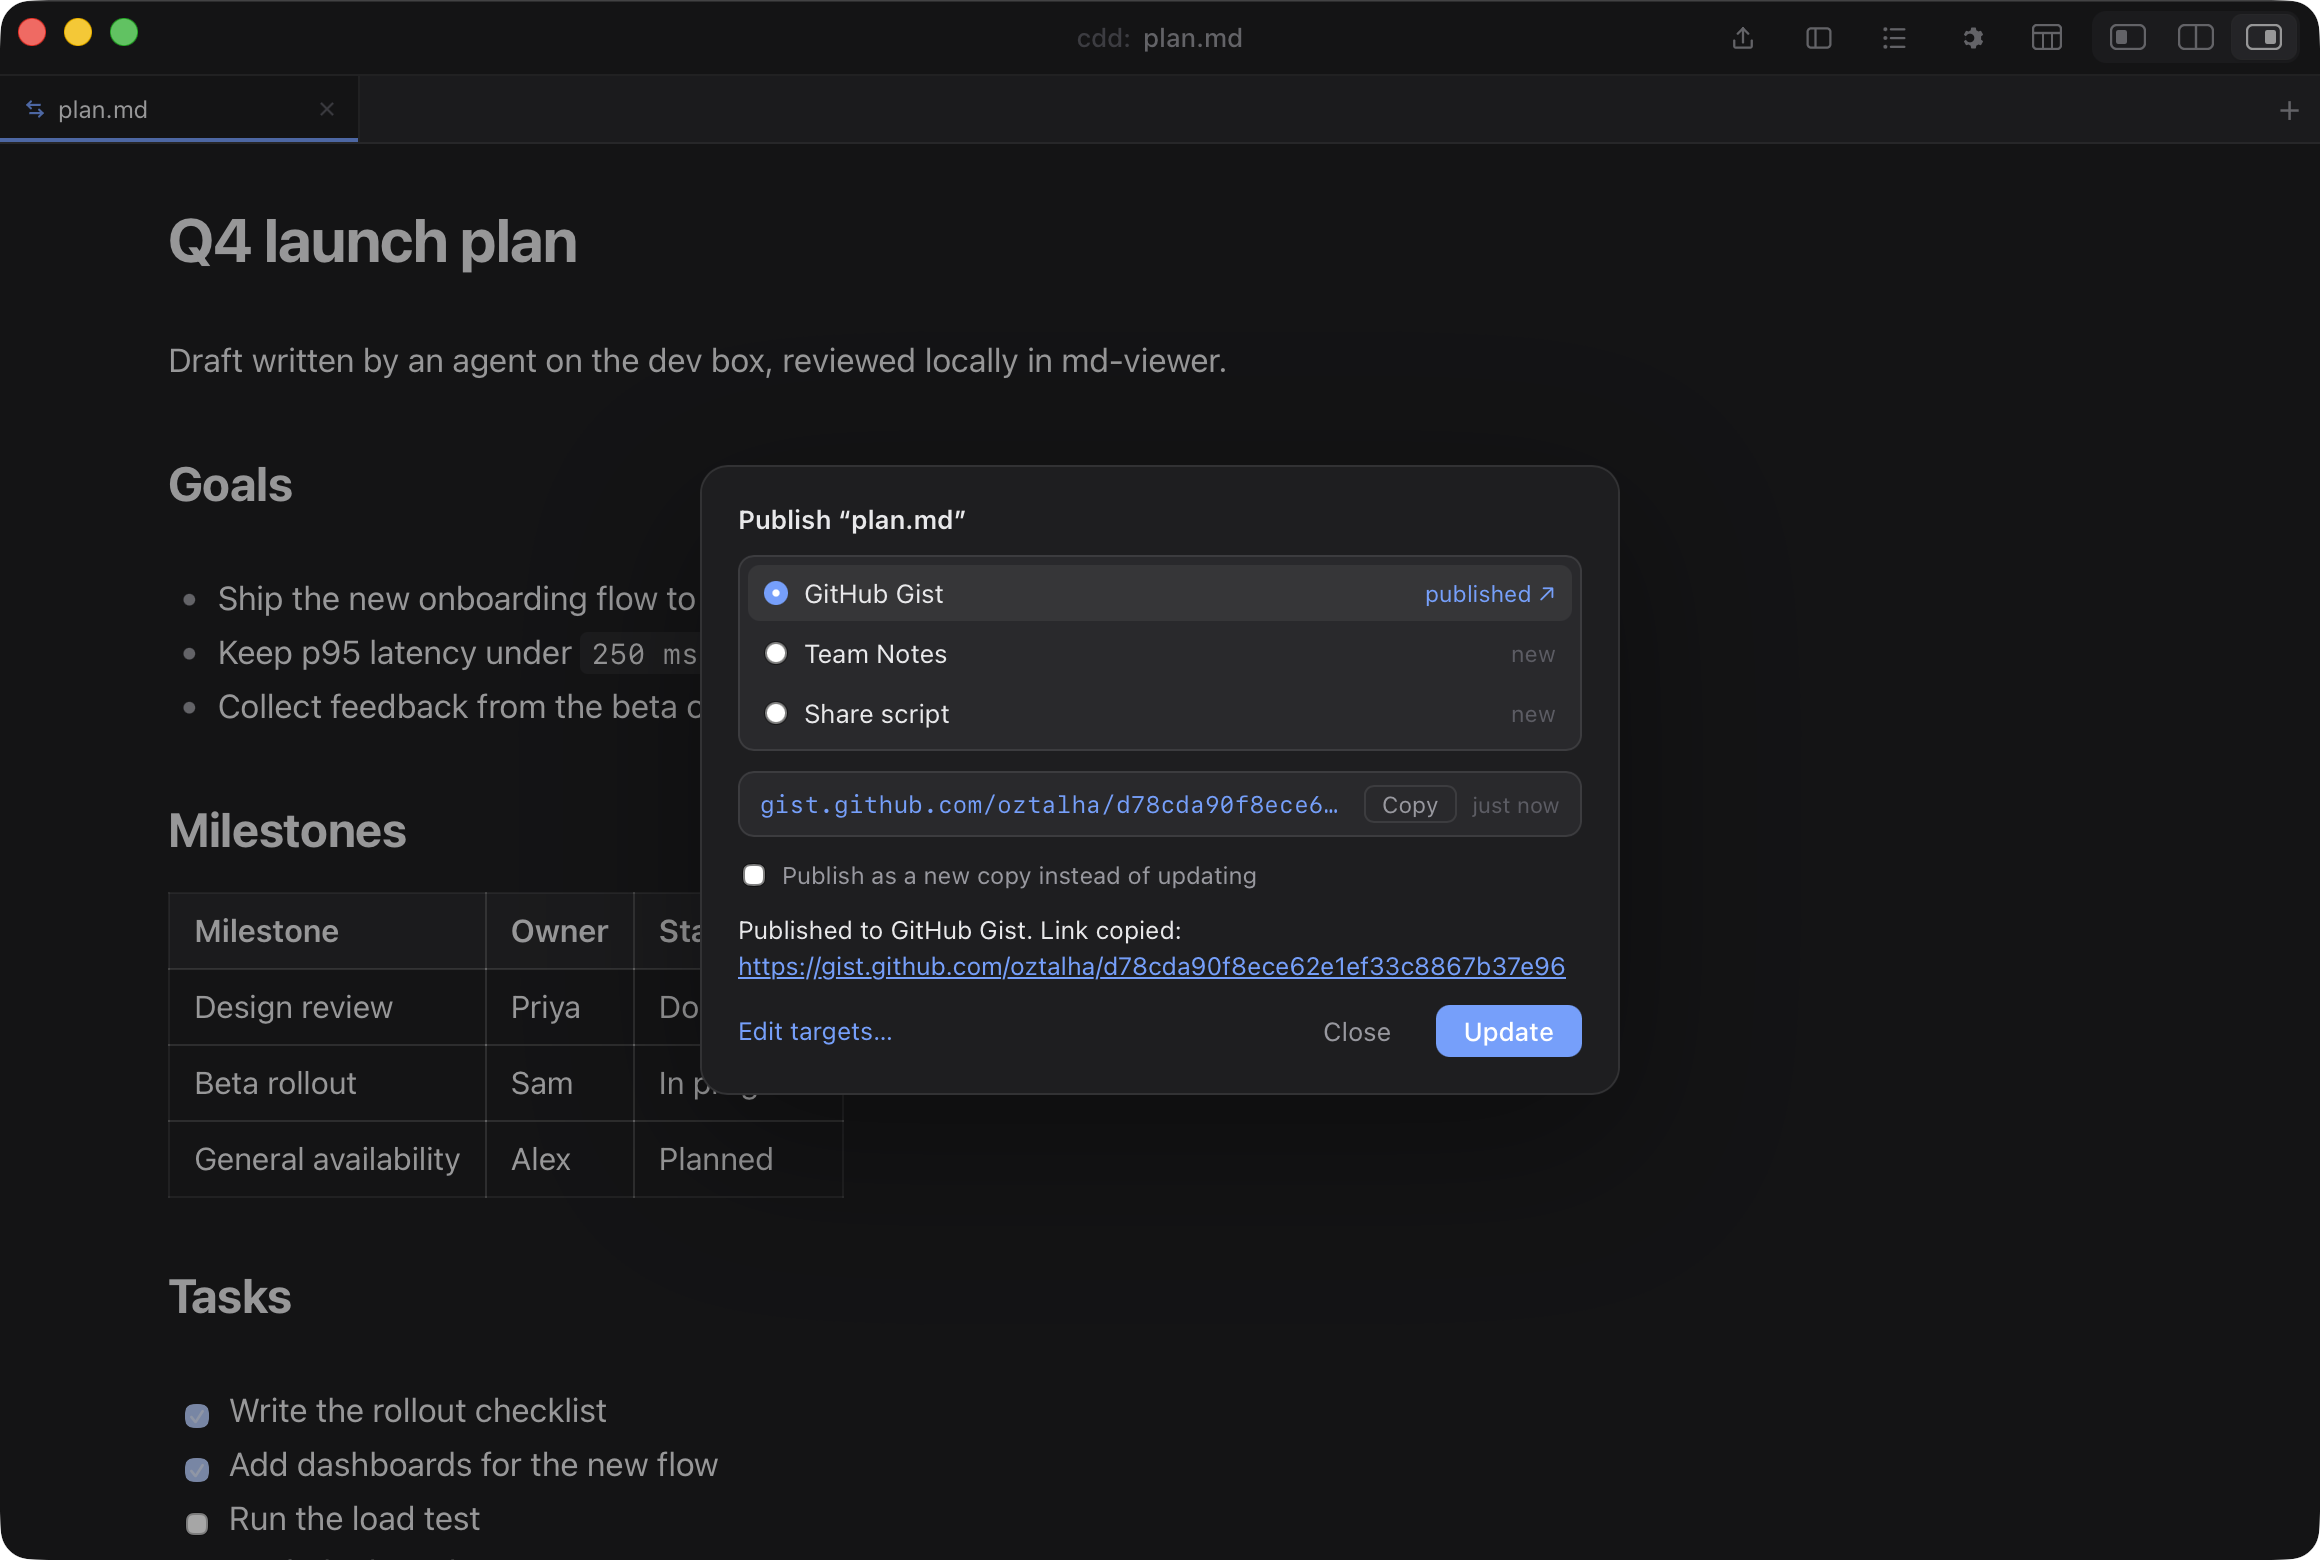
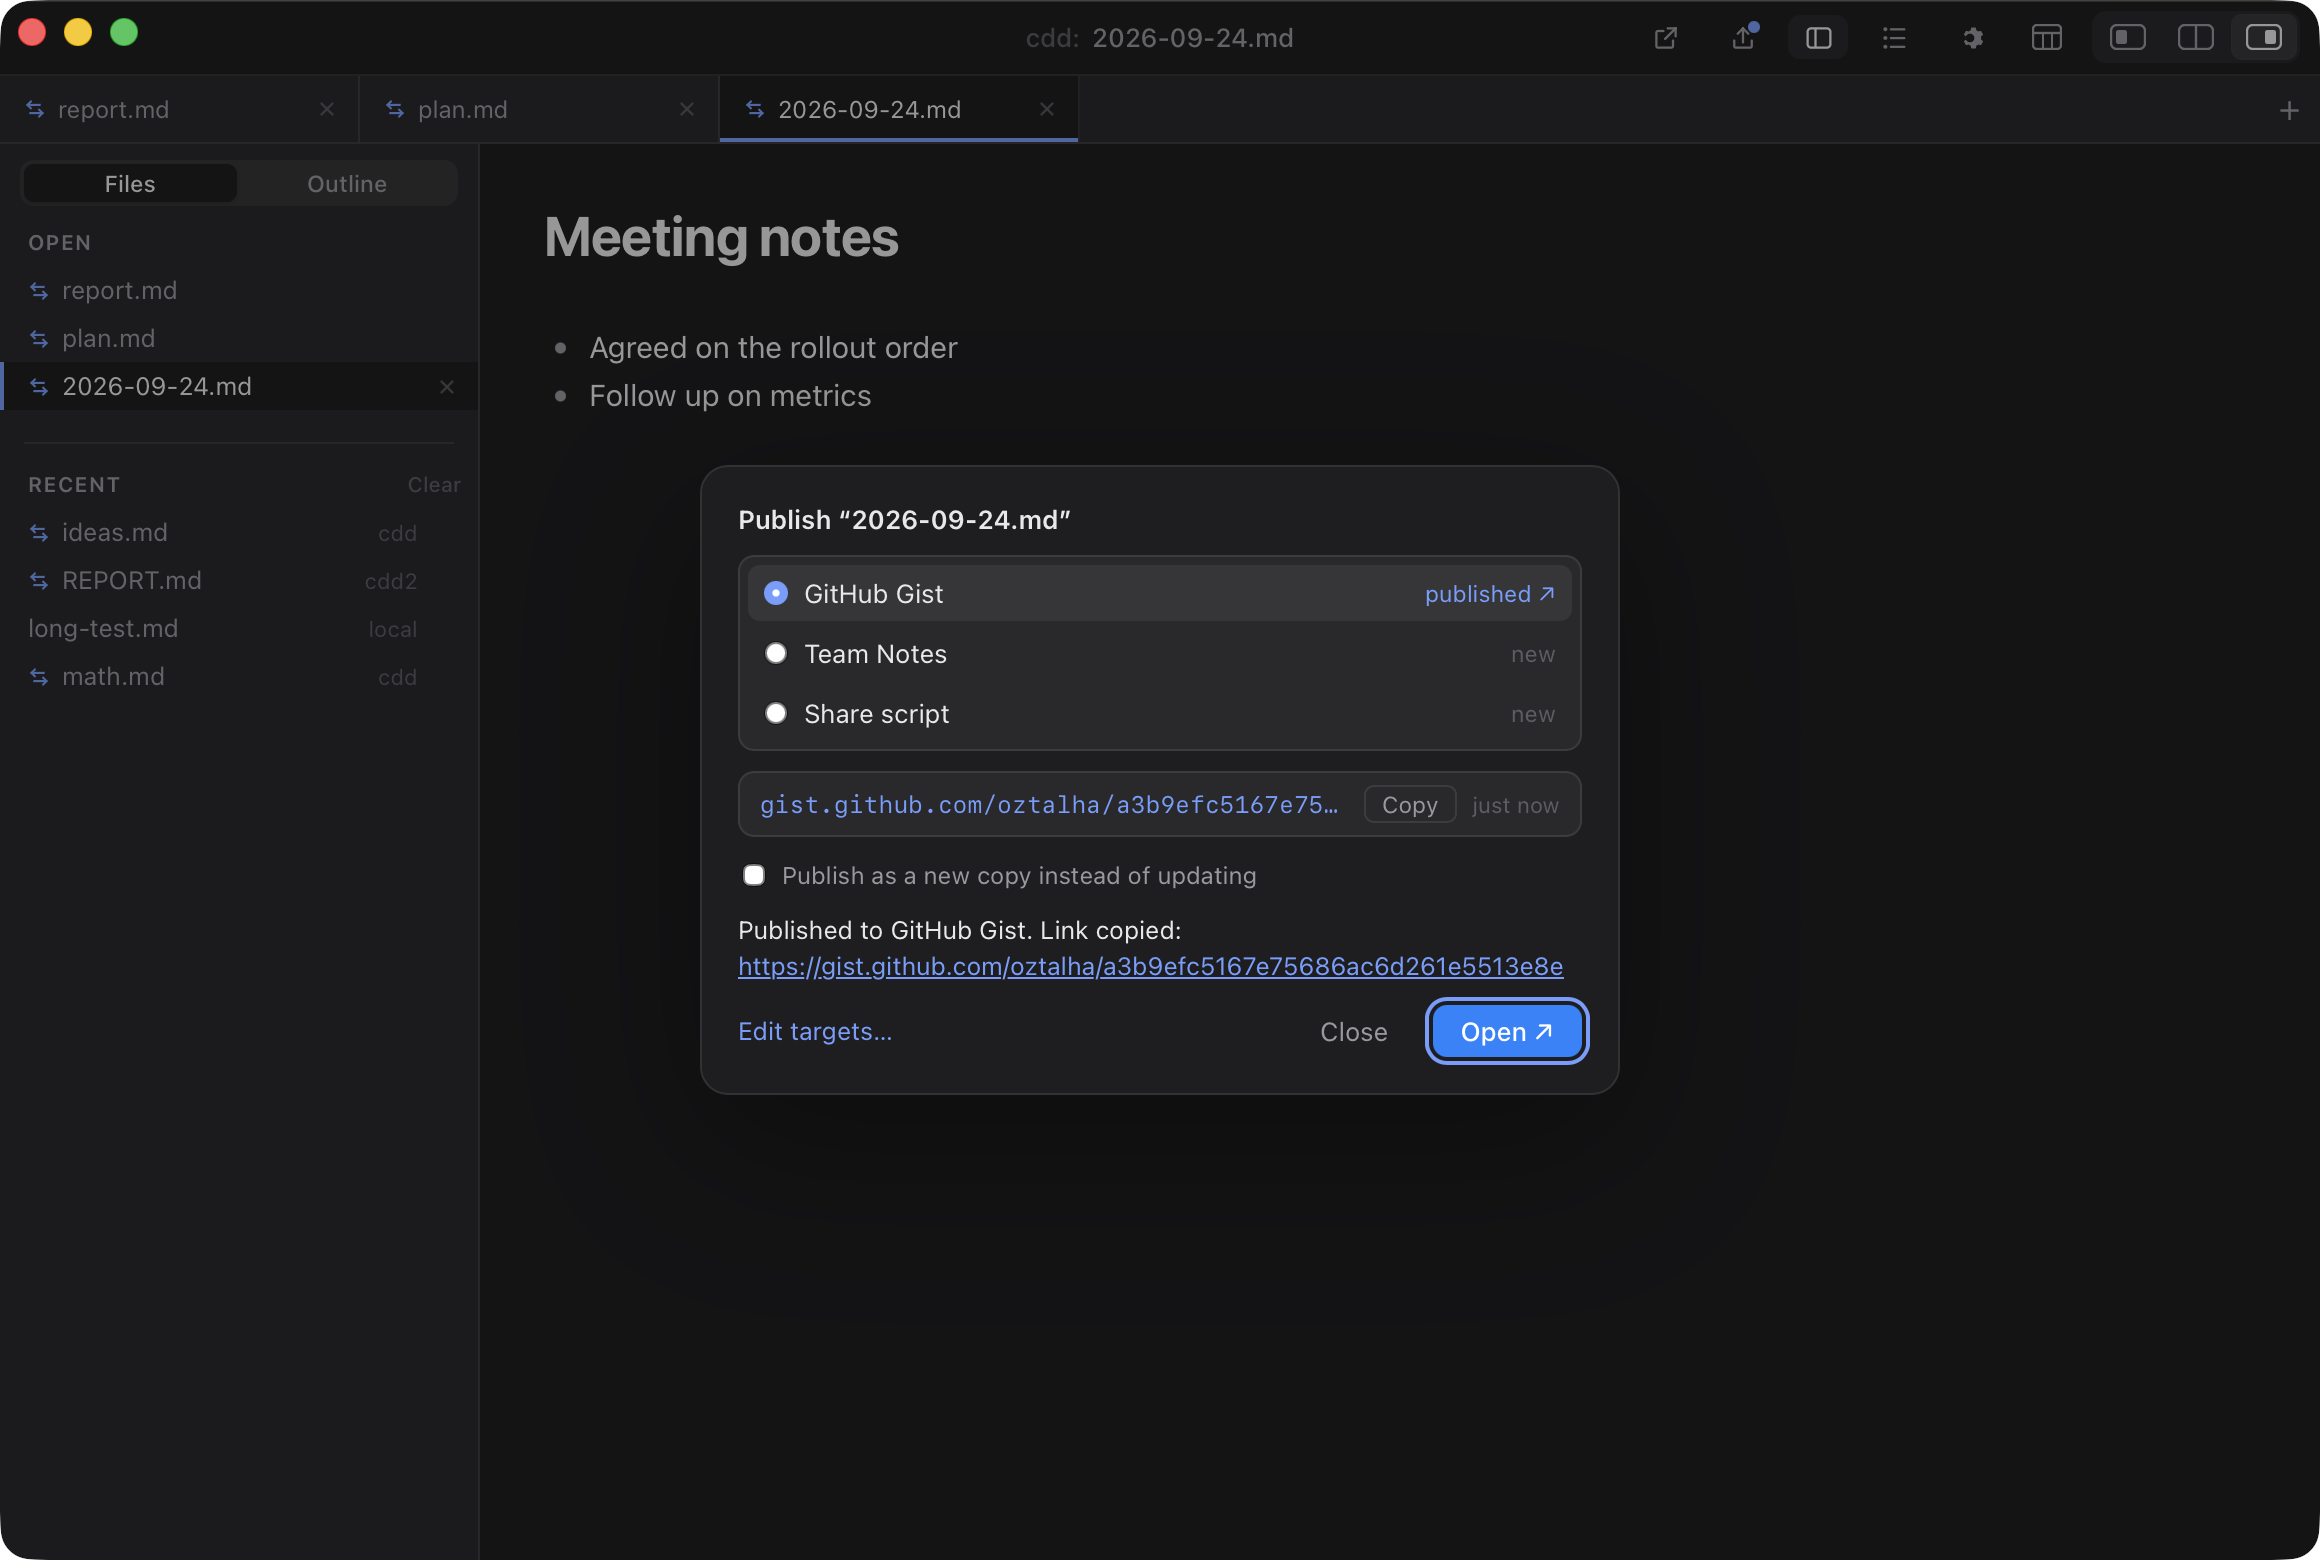
v0.5.0: refreshed screenshots
README screenshots retaken with the current UI (sidebar Files/Outline and
recents, publish dialog, remote browser, math); version 0.5.0.

diff --git a/CHANGELOG.md b/CHANGELOG.md
@@ -3,7 +3,7 @@
 All notable changes to md-viewer. Versions follow [semver](https://semver.org);
 the format is based on [Keep a Changelog](https://keepachangelog.com).
 
-## [Unreleased]
+## [0.5.0] — 2026-09-30
 
 ### Added
 - **Recent files in the sidebar**, below the open documents: click to reopen
@@ -151,6 +151,7 @@ Initial version: semi-WYSIWYG markdown editor with live preview, tiled panes,
 CSV/TSV tables, preview annotations, Prettier formatting, HTML export, and
 opening/editing files over SSH.
 
+[0.5.0]: https://github.com/oztalha/md-viewer/releases/tag/v0.5.0
 [0.4.1]: https://github.com/oztalha/md-viewer/releases/tag/v0.4.1
 [0.4.0]: https://github.com/oztalha/md-viewer/releases/tag/v0.4.0
 [0.3.0]: https://github.com/oztalha/md-viewer/releases/tag/v0.3.0

diff --git a/README.md b/README.md
@@ -42,7 +42,7 @@ for what's new in each version.
 
 **Tabs**
 - Every file opens as a tab; drag to reorder, **⌘1–9** to jump, **⌃Tab** to cycle
-- Resizable sidebar listing open files; the title bar shows `host:` for remote files
+- Sidebar with **Files** (open and recent files, local or remote) and **Outline** tabs (⇧⌘F / ⇧⌘0); the title bar shows `host:` for remote files
 
 **Editing and preview**
 - Editor, split, or preview per document; **⇧⌘V** flips between editor and
